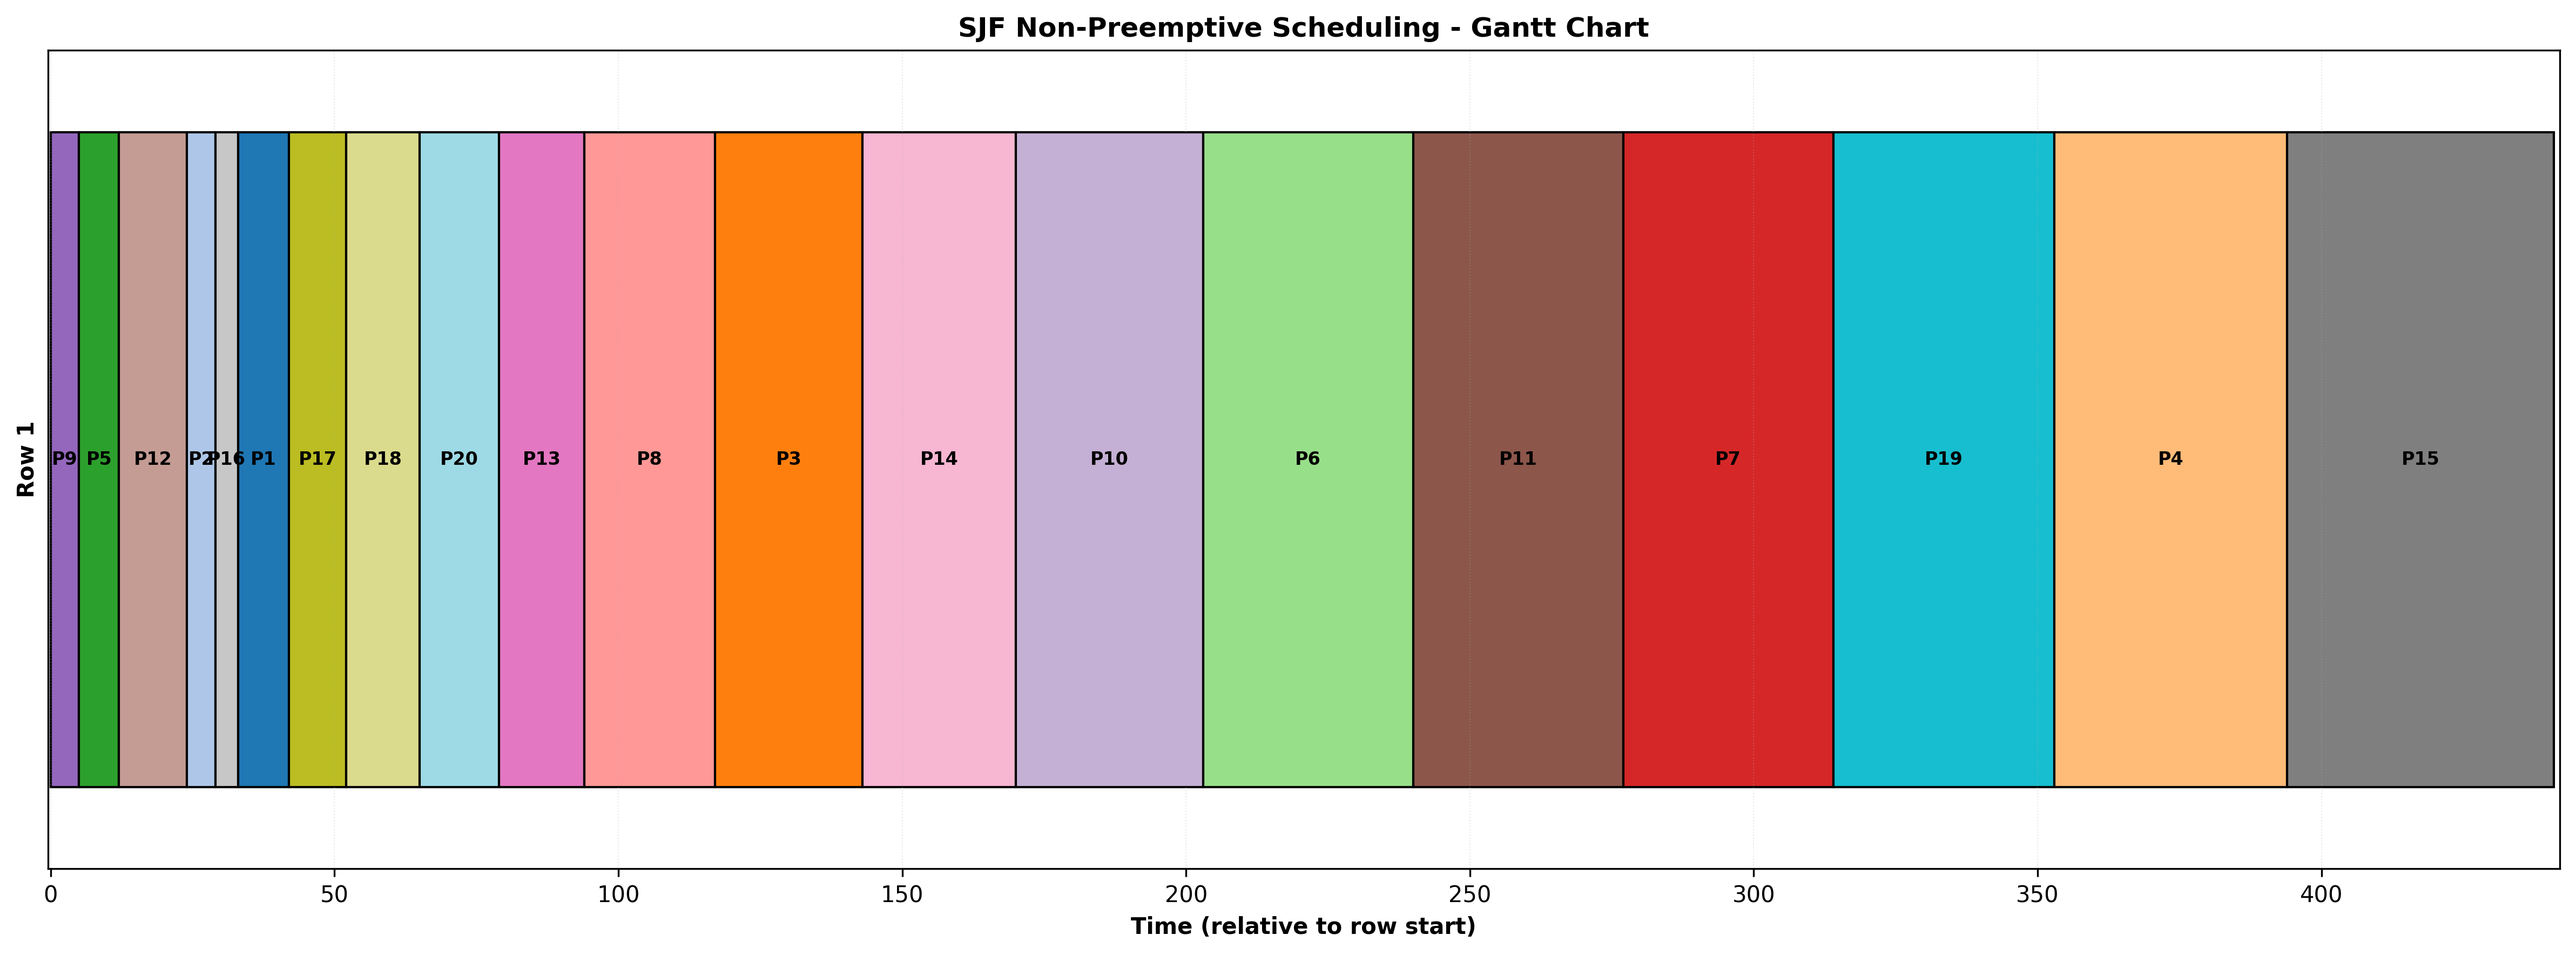
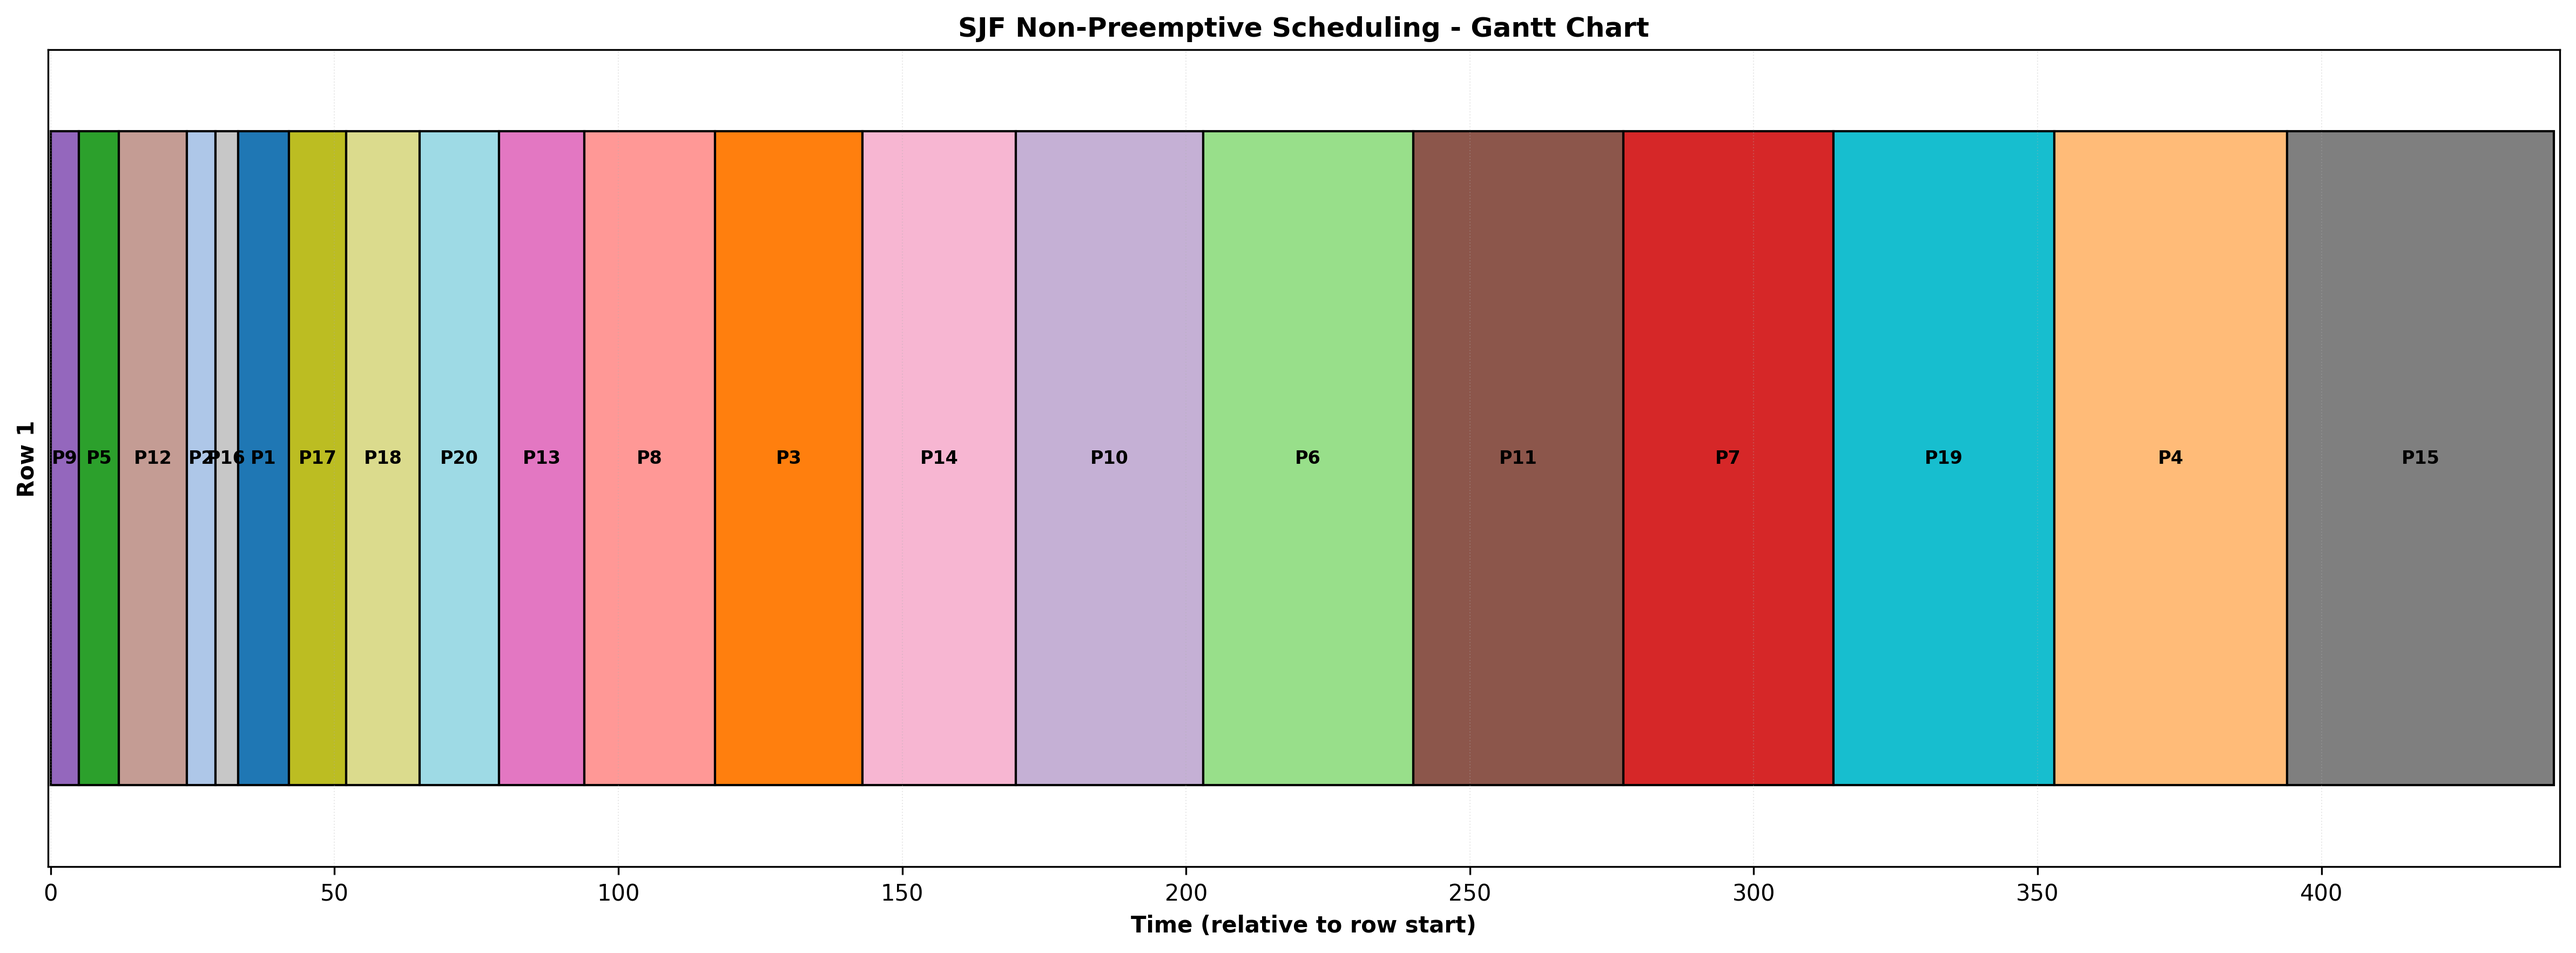
Update: round robin algorithm now generates a gannt chart png file

diff --git a/scheduler_report.py b/scheduler_report.py
@@ -2,11 +2,16 @@ import csv
 import os
 from datetime import datetime
 
+os.environ.setdefault("MPLCONFIGDIR", "/tmp/matplotlib")
+
+import matplotlib.pyplot as plt
+
 
 LOG_FILENAME = "./results/round_robin_simulation_log.txt"
 RESULTS_FILENAME = "./results/round_robin_simulation_results.csv"
 GANTT_CHART_FILENAME = "./results/round_robin_gantt_chart.txt"
 GANTT_DATA_FILENAME = "./results/round_robin_gantt_chart.csv"
+GANTT_IMAGE_FILENAME = "./results/round_robin_gantt_chart.png"
 
 
 def log_event(logs, current_time, message):
@@ -87,6 +92,10 @@ def save_gantt_chart(gantt_chart):
     """Save the execution order as a simple Gantt chart."""
     os.makedirs("./results", exist_ok=True)
 
+    if not gantt_chart:
+        print("No Gantt chart data to save")
+        return
+
     with open(GANTT_CHART_FILENAME, "w", encoding="utf-8") as file:
         file.write("ROUND ROBIN GANTT CHART\n")
         file.write("=" * 60 + "\n\n")
@@ -106,8 +115,68 @@ def save_gantt_chart(gantt_chart):
         for process_id, start_time, end_time in gantt_chart:
             writer.writerow([process_id, start_time, end_time, end_time - start_time])
 
+    save_gantt_chart_image(gantt_chart)
+
     print(f"Gantt chart saved to {GANTT_CHART_FILENAME}")
     print(f"Gantt chart data saved to {GANTT_DATA_FILENAME}")
+    print(f"Gantt chart image saved to {GANTT_IMAGE_FILENAME}")
+
+
+def save_gantt_chart_image(gantt_chart):
+    """Save the Gantt chart as a PNG image."""
+    segments_per_row = 40
+    rows = split_gantt_chart(gantt_chart, segments_per_row)
+    figure_height = max(3, 2.2 * len(rows))
+    fig, axes = plt.subplots(len(rows), 1, figsize=(16, figure_height), squeeze=False)
+
+    process_ids = sorted({process_id for process_id, _, _ in gantt_chart})
+    colormap = plt.get_cmap("tab20")
+    colors = {
+        process_id: colormap(index % colormap.N)
+        for index, process_id in enumerate(process_ids)
+    }
+
+    for row_index, row in enumerate(rows):
+        ax = axes[row_index][0]
+        row_start_time = row[0][1]
+
+        for process_id, start_time, end_time in row:
+            duration = end_time - start_time
+            left = start_time - row_start_time
+
+            ax.barh(
+                y=0,
+                width=duration,
+                left=left,
+                color=colors[process_id],
+                edgecolor="black",
+                linewidth=1,
+            )
+
+            if duration > 0:
+                ax.text(
+                    left + duration / 2,
+                    0,
+                    f"P{process_id}",
+                    ha="center",
+                    va="center",
+                    fontsize=8,
+                    fontweight="bold",
+                )
+
+        row_end_time = row[-1][2]
+        ax.set_xlim(-0.5, row_end_time - row_start_time + 0.5)
+        ax.set_ylim(-0.5, 0.5)
+        ax.set_yticks([])
+        ax.set_xlabel(f"Time from {row_start_time}", fontsize=10)
+        ax.grid(axis="x", alpha=0.3, linestyle=":", linewidth=0.5)
+
+        if row_index == 0:
+            ax.set_title("Round Robin Scheduling - Gantt Chart", fontweight="bold")
+
+    plt.tight_layout()
+    plt.savefig(GANTT_IMAGE_FILENAME, dpi=300, bbox_inches="tight")
+    plt.close(fig)
 
 
 def split_gantt_chart(gantt_chart, row_size=12):
